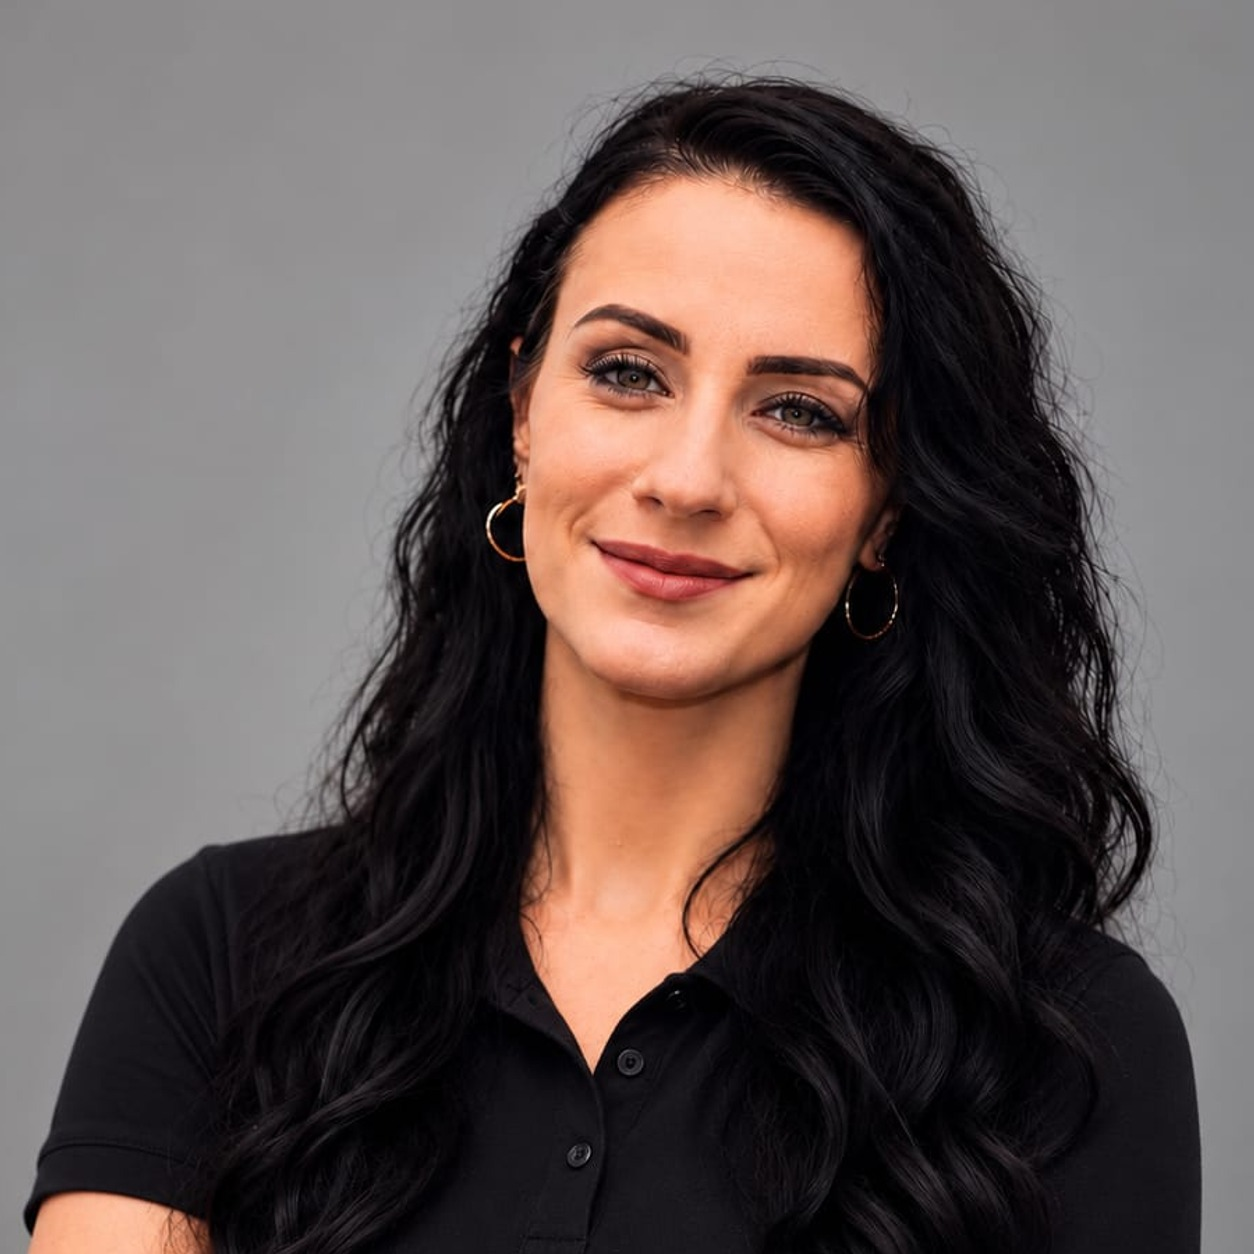
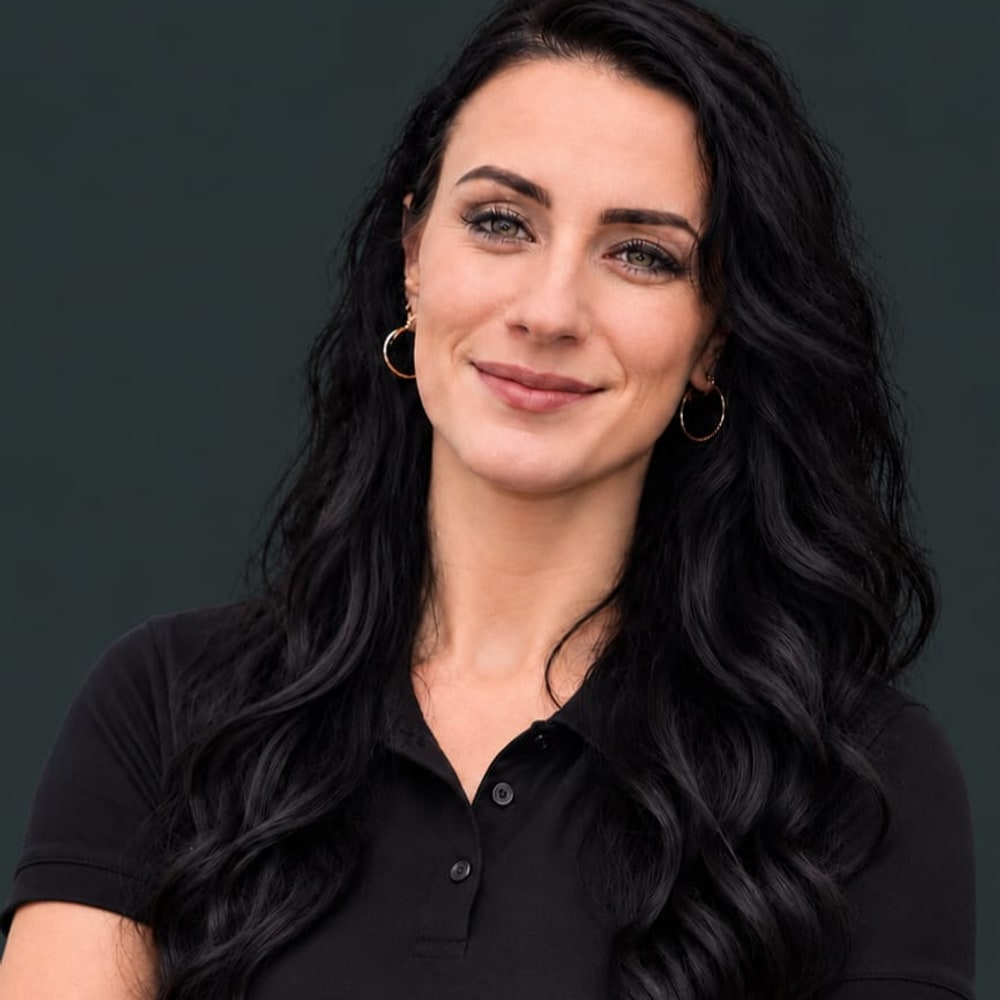
feat(staff): add Monique and refresh Melissa/Richard photos
Add Monique as Shipping Co-Ordinator between Richard and Verushka on
About, Contact, and Premiere. Replace Melissa, Richard, and Monique
headshots with the new studio portraits.

diff --git a/public/staffcapture.html b/public/staffcapture.html
@@ -255,7 +255,9 @@
         const initialStaff = [
             { id: 1, name: "Jaco", title: "Director", dept: "Executive", image: "/images/staff/Jaco.jpg", email: "", phone: "", routing: "secondary", responsibilities: "Overall company strategy, High-level financial approval, Strategic partnerships." },
             { id: 2, name: "Wayne", title: "Director", dept: "Executive", image: "/images/staff/wayne.jpg", email: "", phone: "", routing: "secondary", responsibilities: "Operational oversight, Fleet acquisition, Yard development strategy." },
-            { id: 3, name: "Melissa", title: "Accounts Manager", dept: "Administration", image: "", email: "", phone: "", routing: "primary", responsibilities: "Invoicing, Payroll, Supplier payments, Financial reporting." },
+            { id: 3, name: "Melissa", title: "Accounts Manager", dept: "Administration", image: "/images/staff/Melissa.jpg", email: "", phone: "", routing: "primary", responsibilities: "Invoicing, Payroll, Supplier payments, Financial reporting." },
+            { id: 15, name: "Richard", title: "General Manager", dept: "Management", image: "/images/staff/richard.jpg", email: "", phone: "", routing: "primary", responsibilities: "General management and operations oversight." },
+            { id: 16, name: "Monique", title: "Shipping Co-Ordinator", dept: "Management", image: "/images/staff/monique.jpg", email: "", phone: "", routing: "primary", responsibilities: "Shipping coordination and freight documentation." },
             { id: 4, name: "Verushka", title: "Administration", dept: "Administration", image: "/images/staff/verushka.jpg", email: "", phone: "", routing: "primary", responsibilities: "General office management, Documentation filing, Reception oversight." },
             { id: 5, name: "Mala", title: "Operations", dept: "Operations", image: "/images/staff/mala.png", email: "", phone: "", routing: "primary", responsibilities: "Daily fleet coordination, Driver communication, Load scheduling." },
             { id: 7, name: "Aneri", title: "HR Manager", dept: "HR", image: "/images/staff/Aneri.jpg", email: "", phone: "", routing: "primary", responsibilities: "Recruitment, Staff contracts, Disciplinary hearings, Leave management." },

diff --git a/src/app/about/page.tsx b/src/app/about/page.tsx
@@ -178,6 +178,11 @@ const staffMembers: StaffMember[] = [
     image: '/images/staff/richard.jpg',
   },
   {
+    name: 'Monique',
+    role: 'Shipping Co-Ordinator',
+    image: '/images/staff/monique.jpg',
+  },
+  {
     name: 'Verushka Rossouw',
     role: 'Administration',
     image: '/images/staff/verushka.jpg',

diff --git a/src/app/contact/page.tsx b/src/app/contact/page.tsx
@@ -151,6 +151,11 @@ const staffMembers: StaffMember[] = [
     image: '/images/staff/richard.jpg',
   },
   {
+    name: 'Monique',
+    role: 'Shipping Co-Ordinator',
+    image: '/images/staff/monique.jpg',
+  },
+  {
     name: 'Verushka Rossouw',
     role: 'Administration',
     image: '/images/staff/verushka.jpg',

diff --git a/src/app/premiere/PremiereClient.tsx b/src/app/premiere/PremiereClient.tsx
@@ -50,6 +50,11 @@ const teamMembers = [
     image: '/images/staff/richard.jpg',
   },
   {
+    name: 'Monique',
+    role: 'Shipping Co-Ordinator',
+    image: '/images/staff/monique.jpg',
+  },
+  {
     name: 'Verushka Rossouw',
     role: 'Administration',
     image: '/images/staff/verushka.jpg',
